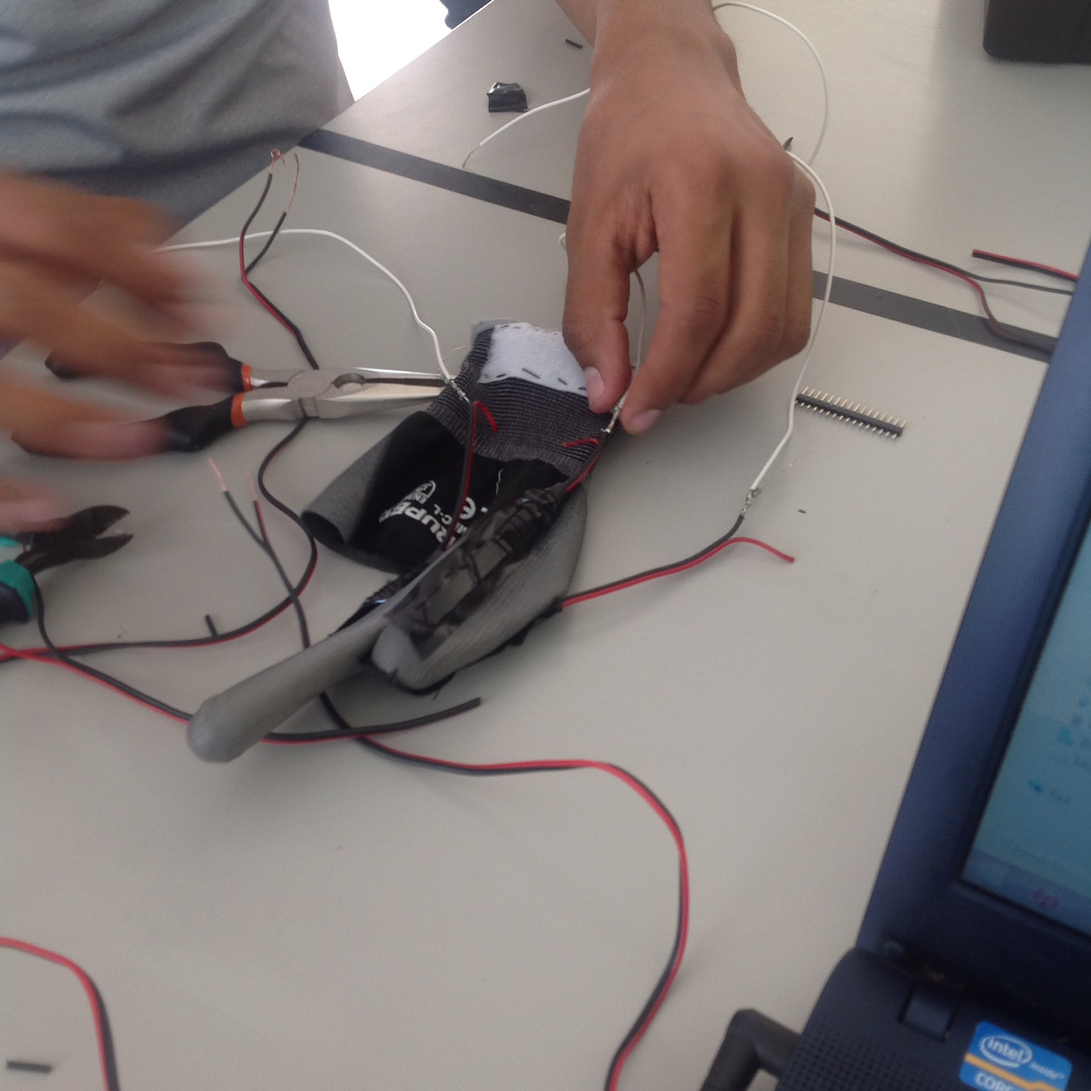
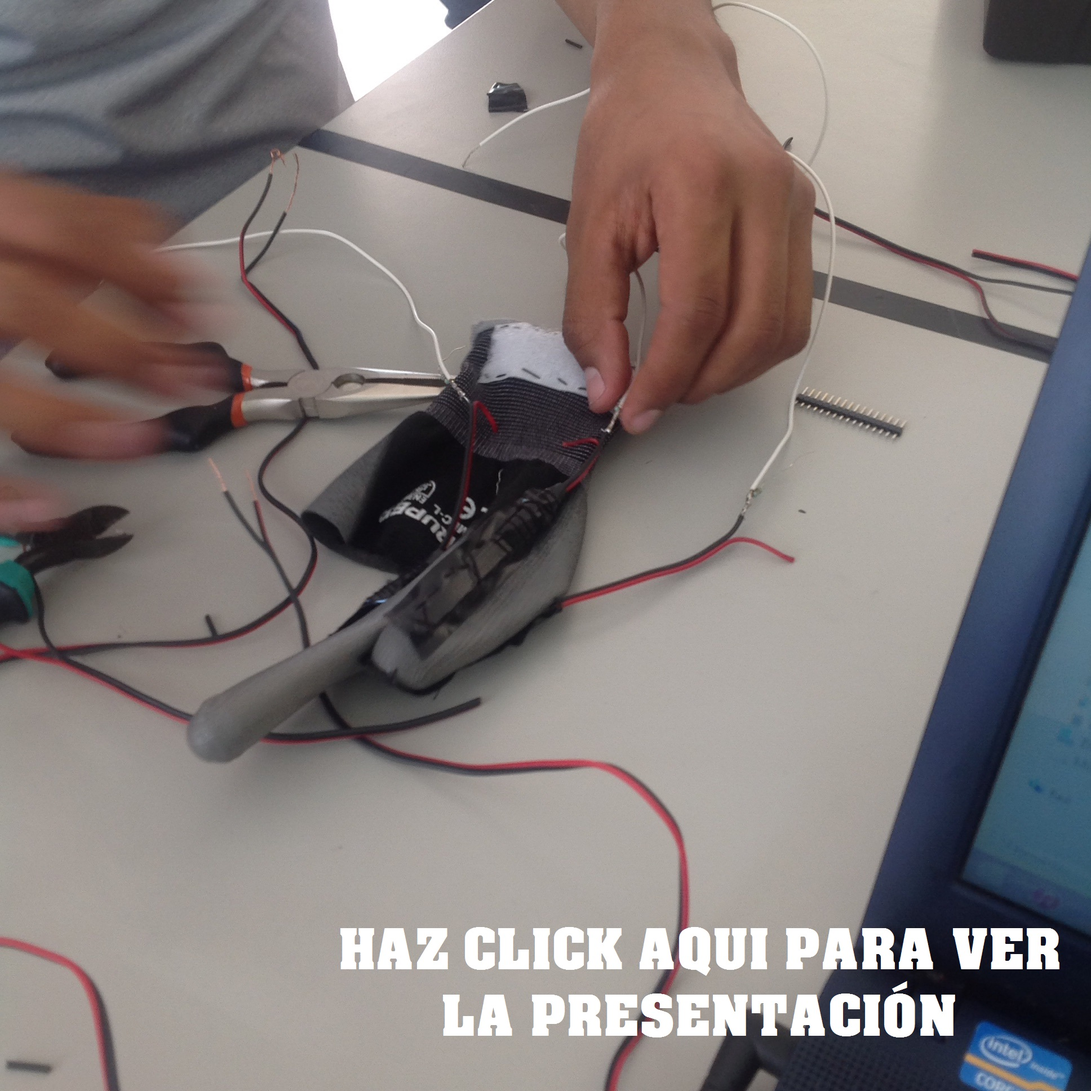
21:36

Changed region(s): [[0.3099, 0.8368, 0.9917, 0.9607]]

diff --git a/index3.html b/index3.html
@@ -70,7 +70,7 @@
   <div class="row">
     <div class="small-12 large-12 columns">  
 
-  	<img style="border-radius:20px" src="images/c.jpg">
+  	<a href="http://prezi.com/szga0xfdjkhn/?utm_campaign=share&utm_medium=copy"><img style="border-radius:20px" src="images/c.jpg"></a>
 
     </div>
   </div>
